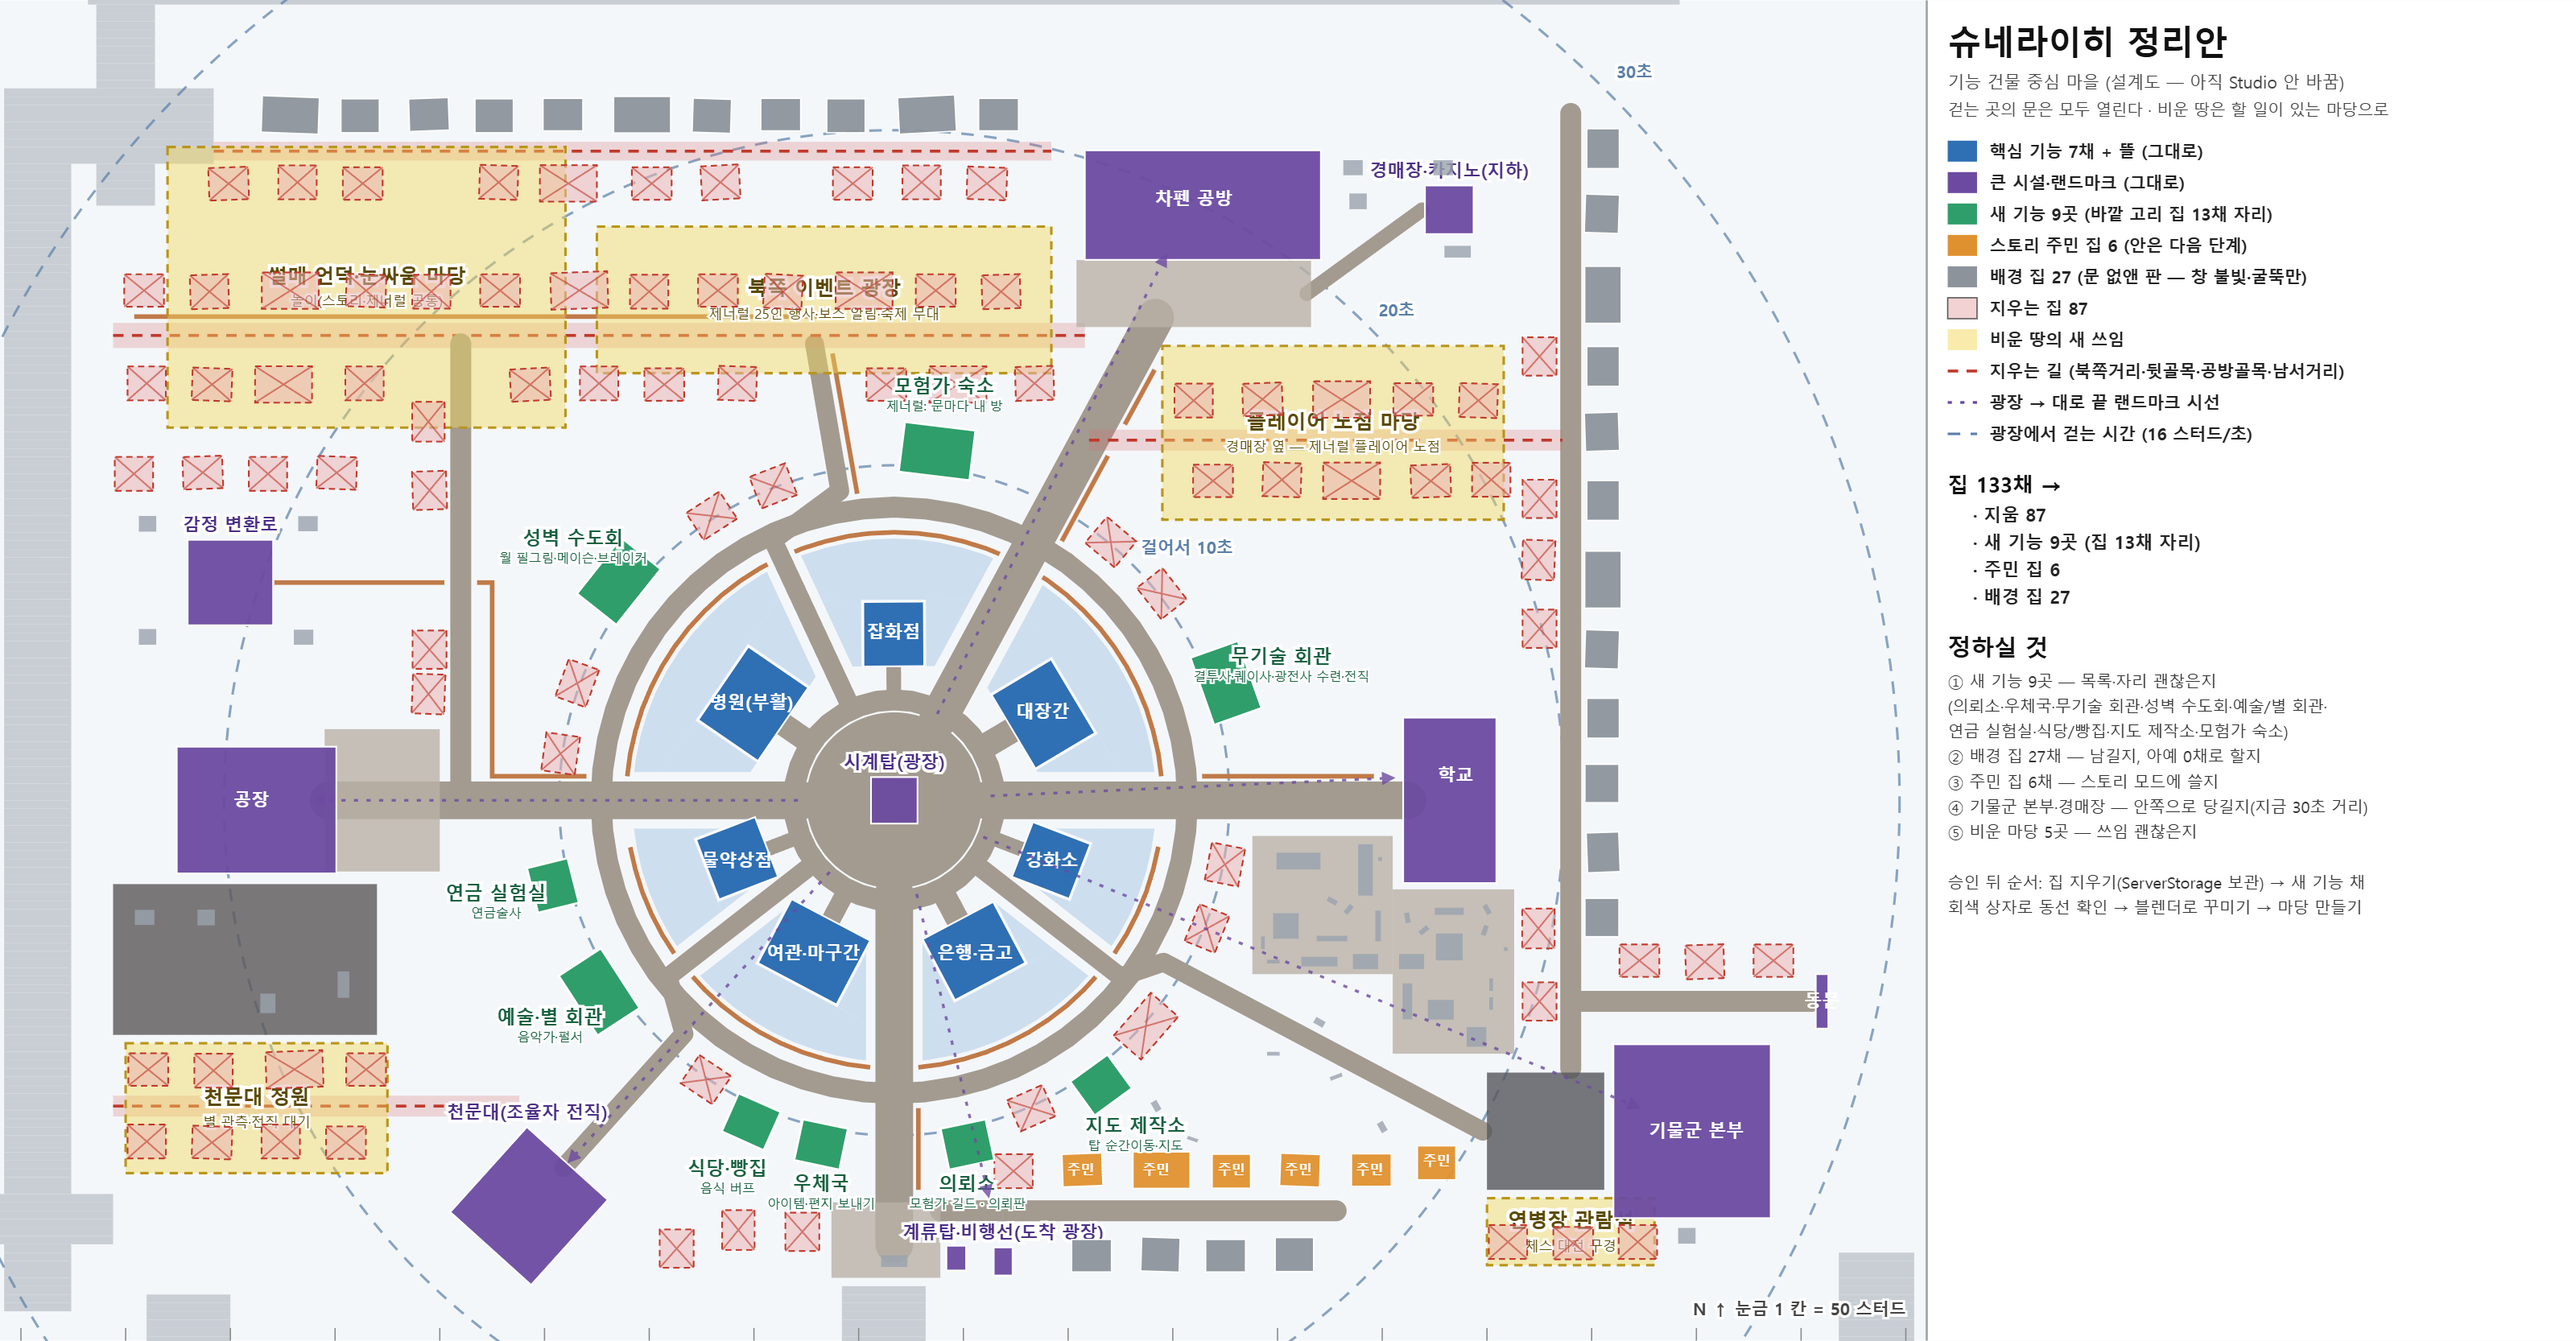
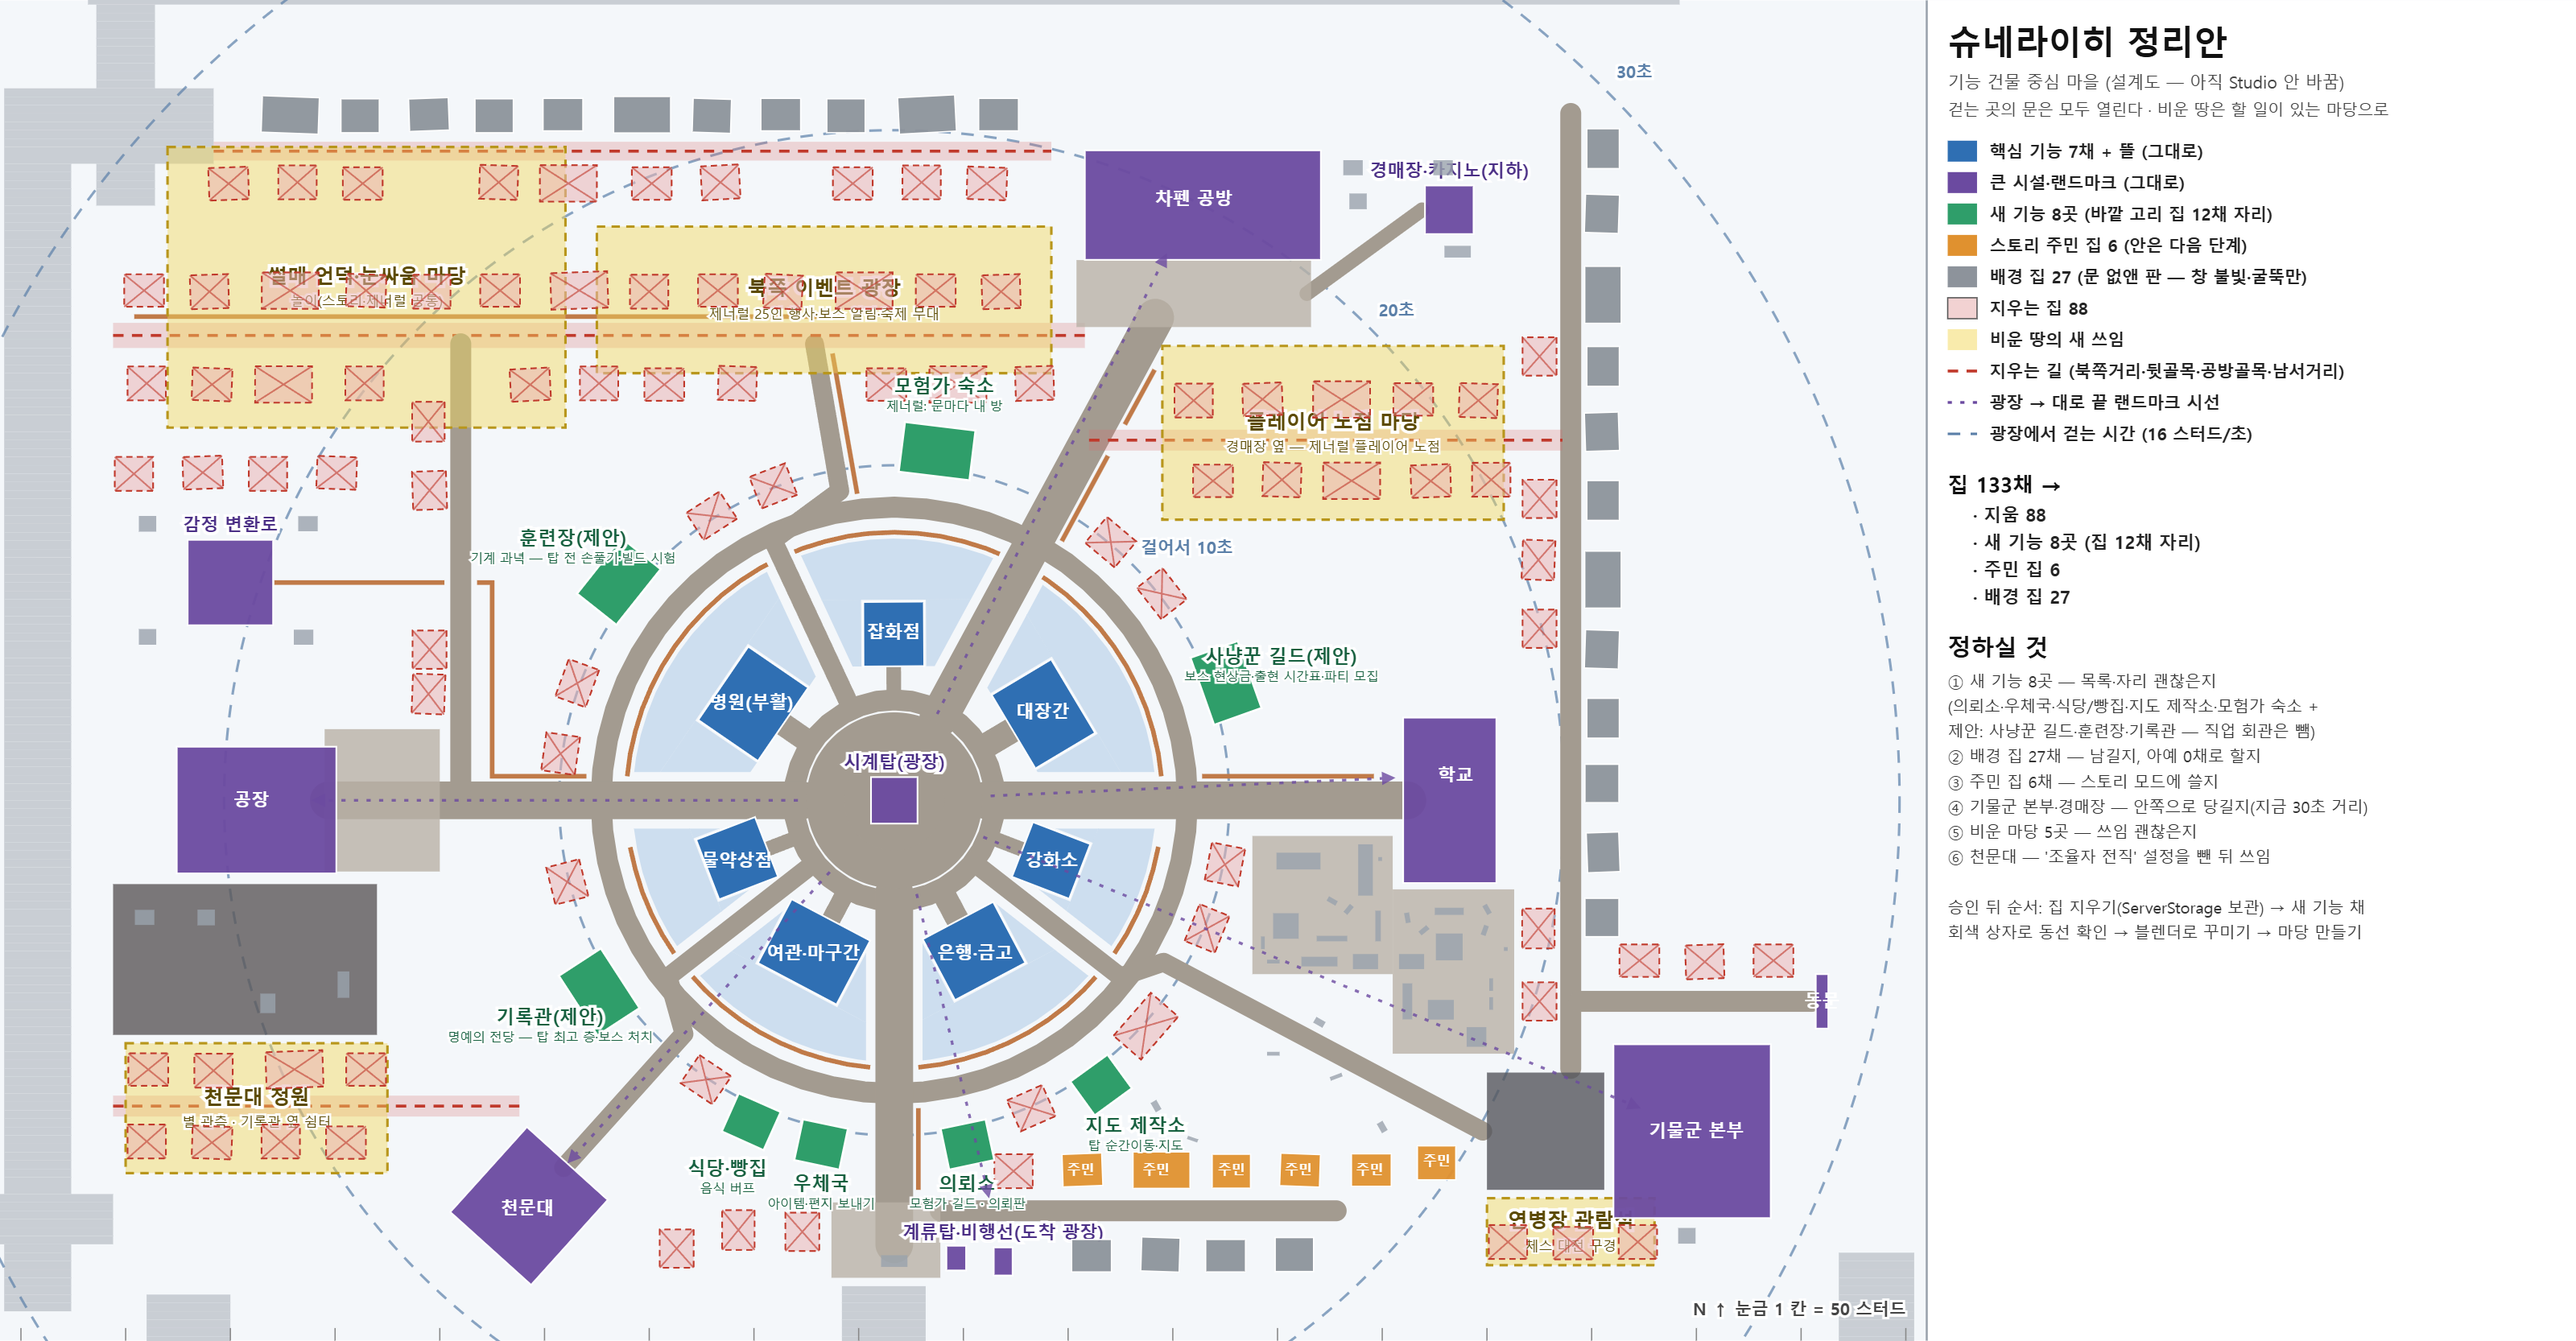
슈네라이히 정리안: 직업 회관 넷 뺌(직업은 탑 입장 전에 골라 탑에서 키움) → 사냥꾼 길드·훈련장·기록관 제안, 연금 실험실 자리 비움, 천문대 전직 설정 뺌

diff --git a/tools/snow_plan3.py b/tools/snow_plan3.py
@@ -31,15 +31,15 @@ def polar(th, r):
 RING_NEW = [
     (78.0, "의뢰소", "모험가 길드 · 의뢰판", 1),
     (102.0, "우체국", "아이템·편지 보내기", 1),
-    (-19.5, "무기술 회관", "결투사·퀘이사·광전사 수련·전직", 2),
-    (-141.5, "성벽 수도회", "월 필그림·메이슨·브레이커", 2),
-    (147.0, "예술·별 회관", "음악가·펄서", 2),
-    (166.0, "연금 실험실", "연금술사", 1),
+    # 2026-10-25 사용자: 직업은 탑 입장 전에 골라 탑에서 키운다 → 직업 회관(전직관) 넷은 빼고, 마을 → 탑 → 필드(보스) → 마을 고리를 돕는 것만(제안)
+    (-19.5, "사냥꾼 길드(제안)", "보스 현상금·출현 시간표·파티 모집", 2),
+    (-141.5, "훈련장(제안)", "기계 과녁 — 탑 전 손풀기·빌드 시험", 2),
+    (147.0, "기록관(제안)", "명예의 전당 — 탑 최고 층·보스 처치", 2),
     (114.0, "식당·빵집", "음식 버프", 1),
     (54.0, "지도 제작소", "탑 순간이동·지도", 1),
     (-83.0, "모험가 숙소", "제너럴: 문마다 내 방", 2),
 ]
-RING_USED = {-26.0, -13.0, -148.0, -135.0, 141.0, 153.0, 166.0, 114.0, 54.0, -89.0, -77.0, 78.0, 102.0}
+RING_USED = {-26.0, -13.0, -148.0, -135.0, 141.0, 153.0, 114.0, 54.0, -89.0, -77.0, 78.0, 102.0}   # 166(옛 연금 실험실 자리)은 비움
 
 
 def classify(k, x, z, g):
@@ -66,11 +66,11 @@ AREAS = [
     ([(-5280, -4130), (-5090, -4130), (-5090, -3996), (-5280, -3996)], "썰매 언덕·눈싸움 마당", "놀이(스토리·제너럴 공통)"),
     ([(-4805, -4035), (-4642, -4035), (-4642, -3952), (-4805, -3952)], "플레이어 노점 마당", "경매장 옆 — 제너럴 플레이어 노점"),
     ([(-4650, -3628), (-4570, -3628), (-4570, -3596), (-4650, -3596)], "연병장 관람석", "체스 대전 구경"),
-    ([(-5300, -3702), (-5175, -3702), (-5175, -3640), (-5300, -3640)], "천문대 정원", "별 관측·전직 대기"),
+    ([(-5300, -3702), (-5175, -3702), (-5175, -3640), (-5300, -3640)], "천문대 정원", "별 관측 · 기록관 옆 쉼터"),
 ]
 REMOVED_ROADS = {"북쪽거리", "뒷골목", "공방골목", "남서거리"}
 LANDMARKS = {"Clock_Tower": "시계탑(광장)", "Zapfen_Werk": "차펜 공방", "Schule": "학교", "Steam_Factory": "공장",
-             "Herzofen": "감정 변환로", "Observatory": "천문대(조율자 전직)", "Figuren_HQ": "기물군 본부",
+             "Herzofen": "감정 변환로", "Observatory": "천문대", "Figuren_HQ": "기물군 본부",
              "Casino_Gate": "경매장·카지노(지하)", "Mooring_Mast": "계류탑·비행선(도착 광장)", "Ticket_Booth": "", "City_Gate": "동문"}
 SVC_NAME = {"Svc_Smithy": "대장간", "Svc_Enhance": "강화소", "Svc_Bank": "은행·금고", "Svc_Inn": "여관·마구간",
             "Svc_Potion": "물약상점", "Svc_Hospital": "병원(부활)", "Svc_General": "잡화점"}
@@ -206,7 +206,7 @@ def svg():
     text(bx, bz + 34, "기능 건물 중심 마을 (설계도 — 아직 Studio 안 바꿈)", 8, "#444", 500, "start", False)
     text(bx, bz + 47, "걷는 곳의 문은 모두 열린다 · 비운 땅은 할 일이 있는 마당으로", 7.5, "#444", 400, "start", False)
     rows = [(COL["svc"], "핵심 기능 7채 + 뜰 (그대로)", 1.0), (COL["land"], "큰 시설·랜드마크 (그대로)", 1.0),
-            (COL["new"], "새 기능 9곳 (바깥 고리 집 %d채 자리)" % counts["new"], 1.0), (COL["res"], "스토리 주민 집 %d (안은 다음 단계)" % counts["res"], 1.0),
+            (COL["new"], "새 기능 %d곳 (바깥 고리 집 %d채 자리)" % (len(RING_NEW), counts["new"]), 1.0), (COL["res"], "스토리 주민 집 %d (안은 다음 단계)" % counts["res"], 1.0),
             (COL["bg"], "배경 집 %d (문 없앤 판 — 창 불빛·굴뚝만)" % counts["bg"], 1.0), (COL["del"], "지우는 집 %d" % counts["del"], 0.6),
             (COL["area"], "비운 땅의 새 쓰임", 0.5)]
     for i, (c, t, op) in enumerate(rows):
@@ -223,17 +223,18 @@ def svg():
     total = sum(counts.values())
     yy += 56
     text(bx, yy, "집 %d채 →" % total, 10, "#111", 800, "start", False)
-    for i, t in enumerate(("지움 %d" % counts["del"], "새 기능 9곳 (집 %d채 자리)" % counts["new"], "주민 집 %d" % counts["res"], "배경 집 %d" % counts["bg"])):
+    for i, t in enumerate(("지움 %d" % counts["del"], "새 기능 %d곳 (집 %d채 자리)" % (len(RING_NEW), counts["new"]), "주민 집 %d" % counts["res"], "배경 집 %d" % counts["bg"])):
         text(bx + 12, yy + 14 + i * 13, "· " + t, 8.5, "#222", 600, "start", False)
     yy += 78
     text(bx, yy, "정하실 것", 11, "#111", 800, "start", False)
-    notes = ["① 새 기능 9곳 — 목록·자리 괜찮은지",
-             "    (의뢰소·우체국·무기술 회관·성벽 수도회·예술/별 회관·",
-             "     연금 실험실·식당/빵집·지도 제작소·모험가 숙소)",
+    notes = ["① 새 기능 %d곳 — 목록·자리 괜찮은지" % len(RING_NEW),
+             "    (의뢰소·우체국·식당/빵집·지도 제작소·모험가 숙소 +",
+             "     제안: 사냥꾼 길드·훈련장·기록관 — 직업 회관은 뺌)",
              "② 배경 집 27채 — 남길지, 아예 0채로 할지",
              "③ 주민 집 6채 — 스토리 모드에 쓸지",
              "④ 기물군 본부·경매장 — 안쪽으로 당길지(지금 30초 거리)",
              "⑤ 비운 마당 5곳 — 쓰임 괜찮은지",
+             "⑥ 천문대 — '조율자 전직' 설정을 뺀 뒤 쓰임",
              "",
              "승인 뒤 순서: 집 지우기(ServerStorage 보관) → 새 기능 채",
              "회색 상자로 동선 확인 → 블렌더로 꾸미기 → 마당 만들기"]
